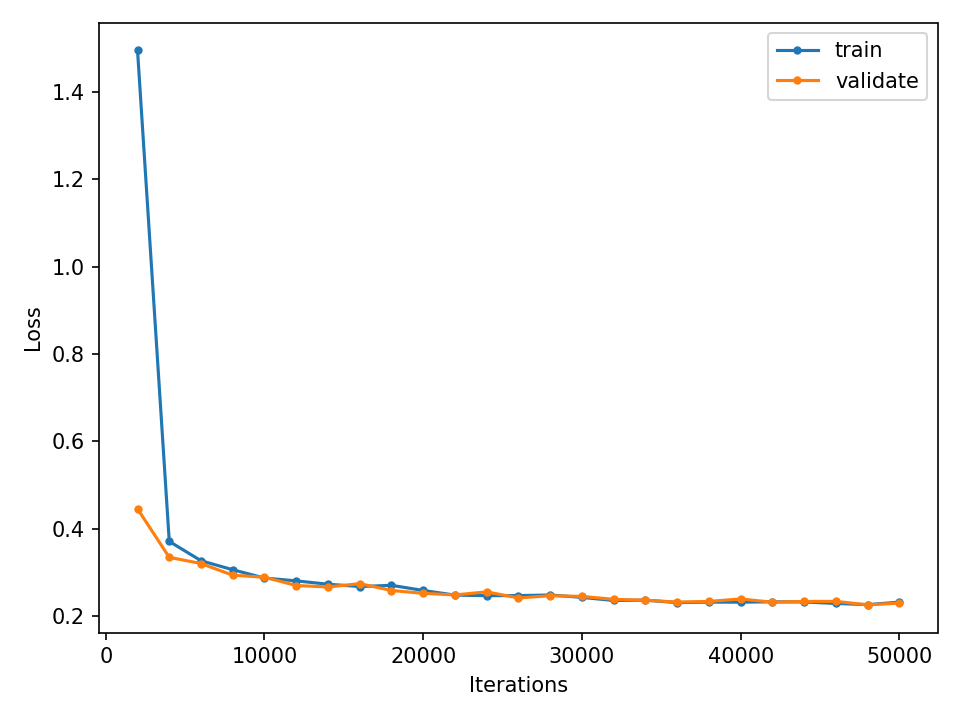
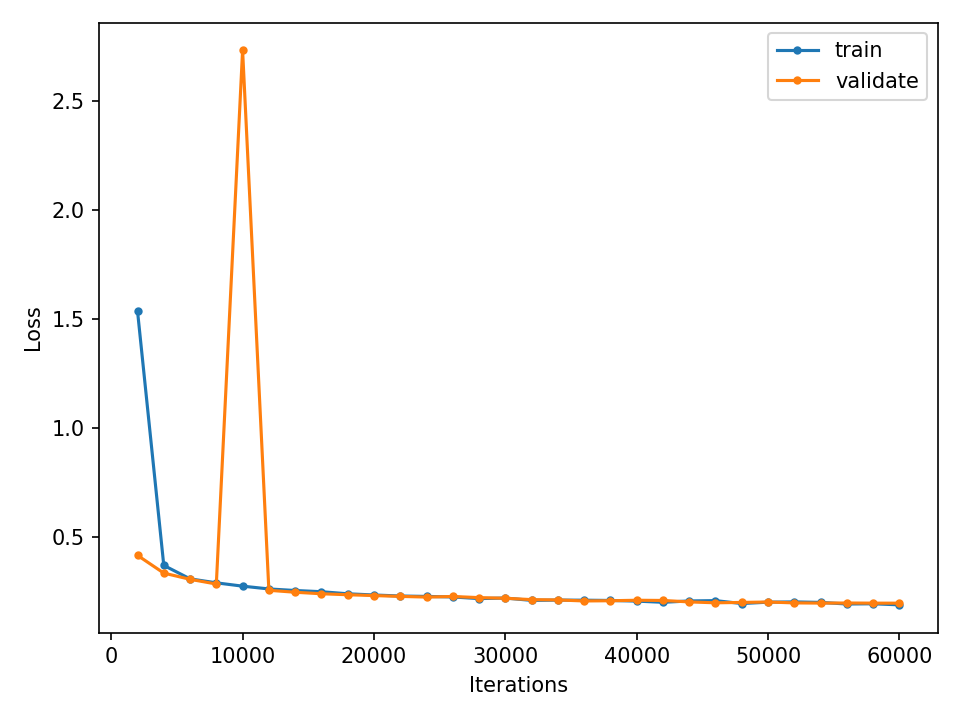
Update training results

diff --git a/word_classifier/evaluate_crnn.py b/word_classifier/evaluate_crnn.py
@@ -43,7 +43,7 @@ def main():
     device = torch.device('cuda' if torch.cuda.is_available() else 'cpu')
     model = crnn.CRNN(output_dim=len(itos))
     model.load_state_dict(
-        torch.load(os.path.join(paths.OUTPUT_DIR, 'backup.pth')))
+        torch.load(os.path.join(paths.OUTPUT_DIR, 'model.pth')))
     model.to(device)
 
     # evaluate on test set

diff --git a/word_classifier/README.md b/word_classifier/README.md
@@ -14,7 +14,7 @@
 Для обучения модели крайне желательно иметь GPU, причём, наверное, с большим объёмом памяти -- у меня при обучении "съедалось" до 10 ГБ даже при использовании батчей из 64 картинок.
 
 Последний результат на тестовом датасете:
-* `CTCLoss = 0.24`
-* 92.3% правильно (без единой опечатки) угаданных слов
+* `CTCLoss = 0.21`
+* 93.0% правильно (без единой опечатки) угаданных слов
 
 Также я попробовал использовать метод `MSER` -- maximally stable extremal regions -- для поиска слов на страницах. Пример работы этого алгоритма -- скрипт `detect_words.py`. В принципе, этот метод работает достаточно неплохо, но есть пара недостатков. Во-первых, параметры метода нужно немного варьировать в зависимости от вида страницы, чтобы получить хороший результат. Во-вторых, `MSER` находит много "мусора", соответственно, нужно как-то изменить режим обучения RCNN, чтобы не находить в таких патчах какие-то несуществующие буквы.
